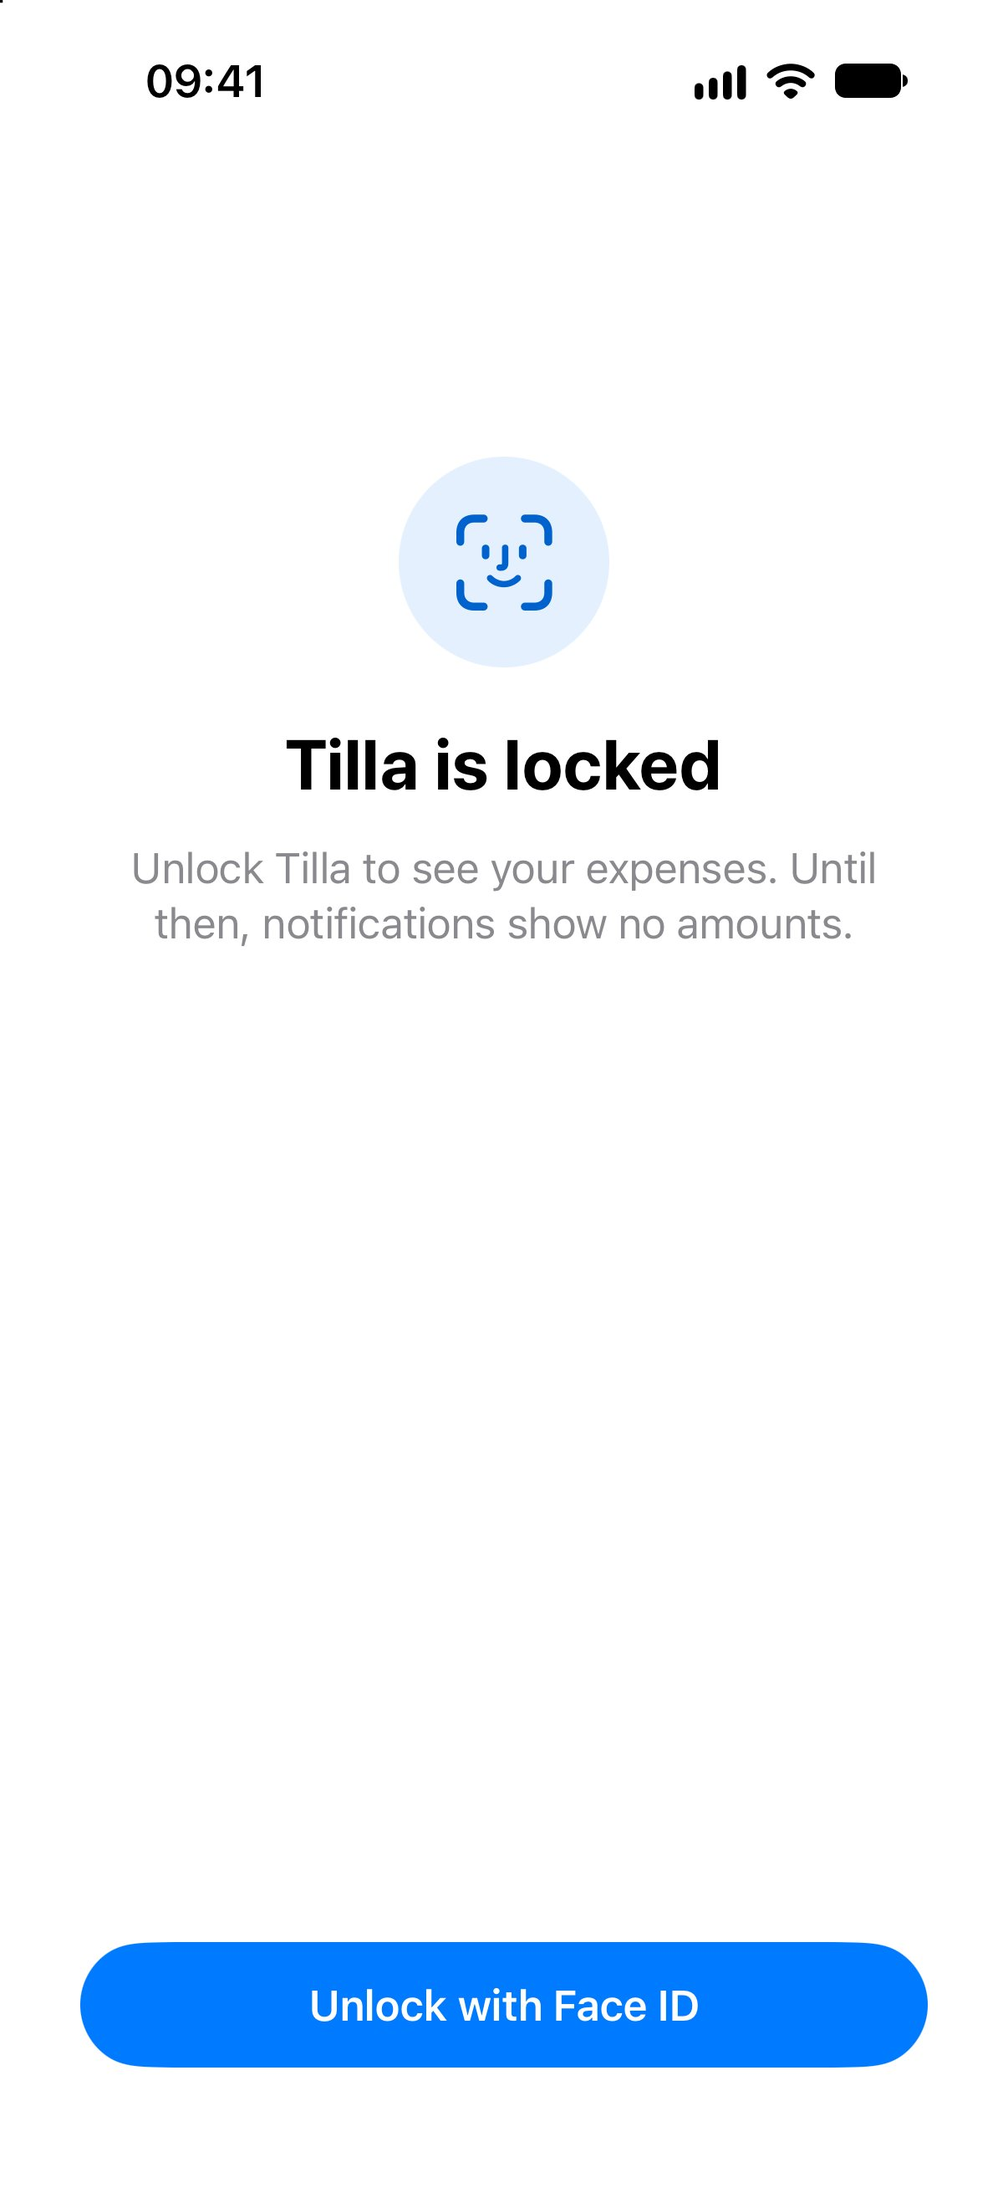
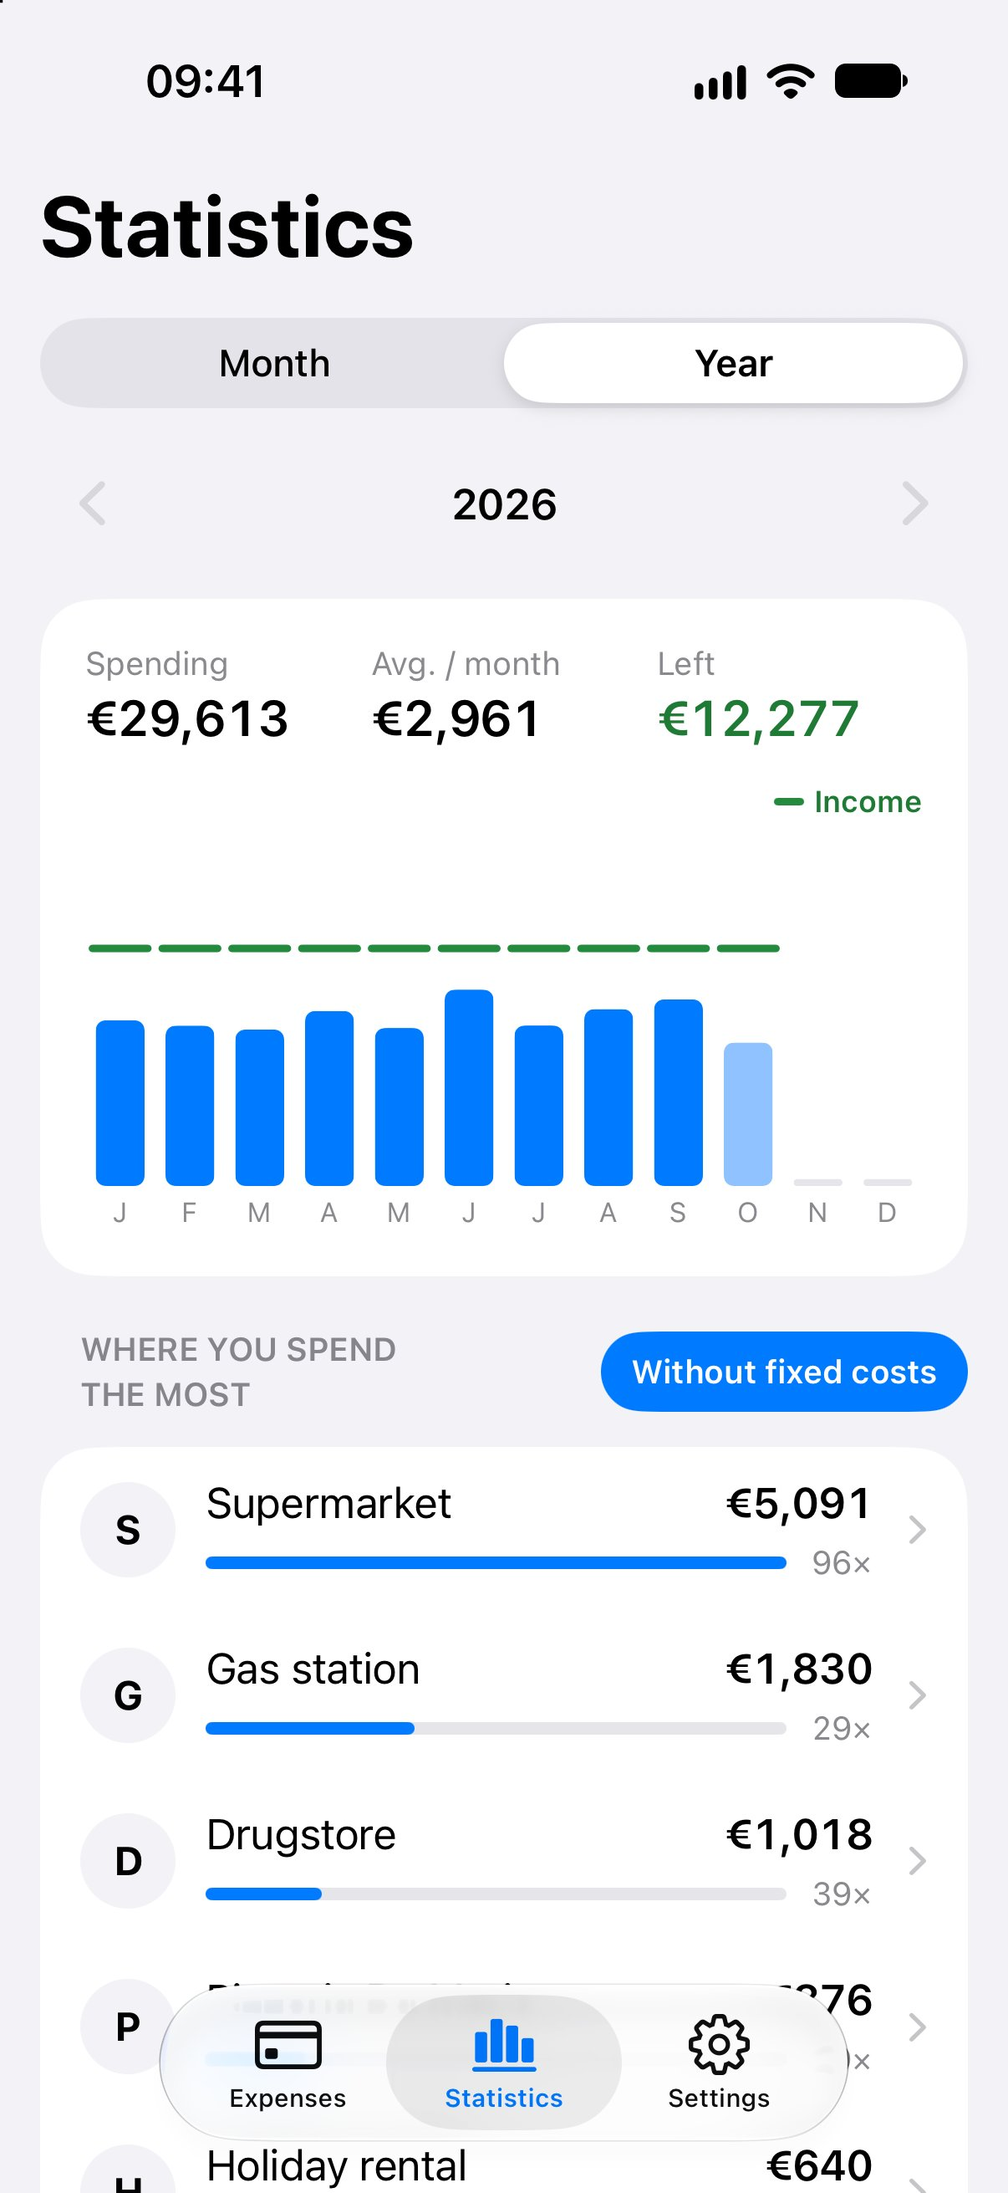
Tilla: iPhone Duo section, the year's statistics as feature 05
- A section of its own for iPhone Duo, with two device images; the hero names it.
- Feature 05 shows the year with new text and alt text; the privacy text keeps
  its wording in a block of its own.

diff --git a/tilla/index.html b/tilla/index.html
@@ -79,6 +79,17 @@ h1{font-size:clamp(40px,6vw,64px);line-height:1.04;font-weight:800;margin-bottom
 .note strong{display:block;margin-bottom:4px}
 .note p{color:var(--sub);font-size:16px}
 
+.privacy{text-align:center;margin-bottom:96px}
+.privacy .section-title{margin-bottom:16px}
+.privacy>p{font-size:19px;color:var(--sub);max-width:34em;margin:0 auto}
+.duo{padding-top:24px;margin-bottom:96px;text-align:center}
+.duo .pill{margin-bottom:16px}
+.duo .section-title{margin-bottom:16px}
+.duo>p{font-size:19px;color:var(--sub);max-width:34em;margin:0 auto 48px}
+.duo-devices{display:grid;grid-template-columns:1fr 1fr;gap:24px}
+.fold{padding:1.3%;border-radius:32px;background:var(--bezel);box-shadow:0 30px 60px -20px rgba(0,0,0,.35),0 0 0 1px rgba(255,255,255,.06) inset}
+.fold img{width:100%;border-radius:22px}
+
 .also{padding-top:24px;margin-bottom:96px}
 .also .section-title{margin-bottom:40px}
 .grid{display:grid;grid-template-columns:repeat(4,1fr);gap:16px}
@@ -110,6 +121,8 @@ footer a{text-decoration:none}
   .feature .phone,.feature:nth-of-type(even) .phone{order:0;margin:0 auto;--w:240px}
   .note{text-align:left}
   .grid{grid-template-columns:repeat(2,1fr)}
+  .privacy,.duo{margin-bottom:72px}
+  .duo-devices{grid-template-columns:1fr}
 }
 @media (max-width:420px){
   .stage{height:470px}
@@ -129,7 +142,7 @@ footer a{text-decoration:none}
 <article lang="de" data-lang="de" data-title="Tilla – Gemeinsame Ausgaben im Blick">
 <section class="hero wrap">
 <div class="hero-text">
-<span class="pill">Bald im App Store · iPhone</span>
+<span class="pill">Bald im App Store · iPhone und iPhone Duo</span>
 <h1>Gemeinsame Ausgaben im Blick</h1>
 <p class="lead">Das gemeinsame Haushaltsbuch für Paare, Familien und WGs: Ihr tragt ein, was ihr ausgebt, und seht jederzeit, wie viel von euren Einnahmen diesen Monat noch übrig ist – ohne Kategorien, Budgets oder Tabellen.</p>
 <div class="actions"><a class="btn" href="https://testflight.apple.com/join/KK5AnQhK">Jetzt die Beta testen</a><a class="btn ghost" href="#de-features">Funktionen ansehen</a></div>
@@ -161,11 +174,13 @@ footer a{text-decoration:none}
 <span class="num">04</span><h3>Gemeinsam über iCloud</h3><p>Ladet alle, mit denen ihr zusammenwohnt, per Nachricht ein – Partnerin oder Partner, Familie oder WG. Alle sehen sofort dasselbe, nichts wird doppelt eingetragen. Kein neues Konto, kein Passwort – Tilla nutzt eure Apple-ID.</p>
 </div></div>
 <div class="feature">
-<div class="phone"><img src="screens/de/06.jpg" width="1206" height="2622" loading="lazy" decoding="async" alt="Tilla mit Face ID gesperrt"></div>
+<div class="phone"><img src="screens/de/06.jpg" width="1206" height="2622" loading="lazy" decoding="async" alt="Statistik des Jahres: Ausgaben und Einnahmen Monat für Monat"></div>
 <div class="feature-text">
-<span class="num">05</span><h3>Privat. Kein Server, kein Tracking.</h3><p>Eure Daten liegen nur auf euren Geräten und in eurem iCloud. Es gibt keinen Tilla-Server, keine Werbung und kein Tracking. Auf Wunsch schützt Face ID oder Touch ID die App.</p>
+<span class="num">05</span><h3>Das ganze Jahr im Blick</h3><p>Die Jahresansicht zeigt Monat für Monat, was ihr ausgegeben habt und was reingekommen ist. So seht ihr auf einen Blick, welche Monate eng waren und was am Ende übrig bleibt.</p>
 </div></div>
 </section>
+<section class="privacy wrap"><h2 class="section-title">Privat. Kein Server, kein Tracking.</h2><p>Eure Daten liegen nur auf euren Geräten und in eurem iCloud. Es gibt keinen Tilla-Server, keine Werbung und kein Tracking. Auf Wunsch schützt Face ID oder Touch ID die App.</p></section>
+<section class="duo wrap"><span class="pill">iPhone Duo</span><h2 class="section-title">Aufgeklappt noch mehr im Blick</h2><p>Auf dem iPhone Duo nutzt Tilla beide Hälften des Displays: links der Monat, rechts eure Einträge. Neue Ausgaben öffnen sich daneben, der Monat bleibt sichtbar.</p><div class="duo-devices"><div class="fold"><img src="screens/de/duo/01.jpg" width="2853" height="2007" loading="lazy" decoding="async" alt="Tilla auf dem iPhone Duo: links der Monat, rechts die Einträge"></div><div class="fold"><img src="screens/de/duo/02.jpg" width="2853" height="2007" loading="lazy" decoding="async" alt="Neue Ausgabe in der rechten Hälfte, der Monat bleibt links sichtbar"></div></div></section>
 <section class="also wrap"><h2 class="section-title">Außerdem</h2><div class="grid">
 <div class="card"><svg viewBox="0 0 24 24" aria-hidden="true" fill="none" stroke="currentColor" stroke-width="1.8" stroke-linecap="round" stroke-linejoin="round"><rect x="9" y="3" width="6" height="11" rx="3"/><path d="M5 11a7 7 0 0 0 14 0M12 18v3"/></svg><h3>Siri und Kurzbefehle</h3><p>Ausgaben per Sprache eintragen und fragen, wie viel ihr diesen Monat ausgegeben habt.</p></div>
 <div class="card"><svg viewBox="0 0 24 24" aria-hidden="true" fill="none" stroke="currentColor" stroke-width="1.8" stroke-linecap="round" stroke-linejoin="round"><path d="M6 16V11a6 6 0 0 1 12 0v5l2 2H4l2-2ZM10 21h4"/></svg><h3>Tägliche Erinnerung</h3><p>Falls ihr etwas vergessen habt.</p></div>
@@ -183,7 +198,7 @@ footer a{text-decoration:none}
 <article lang="en" data-lang="en" data-title="Tilla – Shared spending at a glance">
 <section class="hero wrap">
 <div class="hero-text">
-<span class="pill">Coming soon to the App Store · iPhone</span>
+<span class="pill">Coming soon to the App Store · iPhone and iPhone Duo</span>
 <h1>Shared spending at a glance</h1>
 <p class="lead">The shared household expense book for couples, families and flatmates: you log what you spend and always see how much of your income is left this month – no categories, budgets or spreadsheets.</p>
 <div class="actions"><a class="btn" href="https://testflight.apple.com/join/KK5AnQhK">Try the beta now</a><a class="btn ghost" href="#en-features">See the features</a></div>
@@ -215,11 +230,13 @@ footer a{text-decoration:none}
 <span class="num">04</span><h3>Together over iCloud</h3><p>Invite the people you live with by message – your partner, family or flatmates. Everyone sees the same right away, nothing is entered twice. No new account, no password – Tilla uses your Apple ID.</p>
 </div></div>
 <div class="feature">
-<div class="phone"><img src="screens/en/06.jpg" width="1206" height="2622" loading="lazy" decoding="async" alt="Tilla locked with Face ID"></div>
+<div class="phone"><img src="screens/en/06.jpg" width="1206" height="2622" loading="lazy" decoding="async" alt="The year’s statistics: spending and income month by month"></div>
 <div class="feature-text">
-<span class="num">05</span><h3>Private. No server, no tracking.</h3><p>Your data stays on your devices and in your iCloud. There is no Tilla server, no ads and no tracking. Face ID or Touch ID can lock the app if you like.</p>
+<span class="num">05</span><h3>The whole year at a glance</h3><p>The year view shows what you spent and what came in, month by month. So you can see at a glance which months were tight and what’s left at the end.</p>
 </div></div>
 </section>
+<section class="privacy wrap"><h2 class="section-title">Private. No server, no tracking.</h2><p>Your data stays on your devices and in your iCloud. There is no Tilla server, no ads and no tracking. Face ID or Touch ID can lock the app if you like.</p></section>
+<section class="duo wrap"><span class="pill">iPhone Duo</span><h2 class="section-title">Unfold for even more at a glance</h2><p>On iPhone Duo, Tilla uses both halves of the display: your month on the left, your entries on the right. New expenses open alongside, so the month stays in view.</p><div class="duo-devices"><div class="fold"><img src="screens/en/duo/01.jpg" width="2853" height="2007" loading="lazy" decoding="async" alt="Tilla on iPhone Duo: the month on the left, the entries on the right"></div><div class="fold"><img src="screens/en/duo/02.jpg" width="2853" height="2007" loading="lazy" decoding="async" alt="A new expense in the right half, with the month still visible on the left"></div></div></section>
 <section class="also wrap"><h2 class="section-title">Also</h2><div class="grid">
 <div class="card"><svg viewBox="0 0 24 24" aria-hidden="true" fill="none" stroke="currentColor" stroke-width="1.8" stroke-linecap="round" stroke-linejoin="round"><rect x="9" y="3" width="6" height="11" rx="3"/><path d="M5 11a7 7 0 0 0 14 0M12 18v3"/></svg><h3>Siri and Shortcuts</h3><p>Log expenses by voice and ask how much you’ve spent this month.</p></div>
 <div class="card"><svg viewBox="0 0 24 24" aria-hidden="true" fill="none" stroke="currentColor" stroke-width="1.8" stroke-linecap="round" stroke-linejoin="round"><path d="M6 16V11a6 6 0 0 1 12 0v5l2 2H4l2-2ZM10 21h4"/></svg><h3>Daily reminder</h3><p>In case you forgot something.</p></div>
@@ -237,7 +254,7 @@ footer a{text-decoration:none}
 <article lang="es" data-lang="es" data-title="Tilla – Gastos compartidos a la vista">
 <section class="hero wrap">
 <div class="hero-text">
-<span class="pill">Pronto en el App Store · iPhone</span>
+<span class="pill">Pronto en el App Store · iPhone y iPhone Duo</span>
 <h1>Gastos compartidos a la vista</h1>
 <p class="lead">El libro de gastos compartido del hogar, para parejas, familias y pisos compartidos: apuntáis lo que gastáis y veis en todo momento cuánto queda de vuestros ingresos este mes, sin categorías, presupuestos ni hojas de cálculo.</p>
 <div class="actions"><a class="btn" href="https://testflight.apple.com/join/KK5AnQhK">Prueba la beta ahora</a><a class="btn ghost" href="#es-features">Ver funciones</a></div>
@@ -269,11 +286,13 @@ footer a{text-decoration:none}
 <span class="num">04</span><h3>Juntos a través de iCloud</h3><p>Invitad con un mensaje a quienes vivís juntos: pareja, familia o compañeros de piso. Todos veis lo mismo al momento y nada se apunta dos veces. Sin cuenta nueva ni contraseña: Tilla usa vuestro Apple ID.</p>
 </div></div>
 <div class="feature">
-<div class="phone"><img src="screens/es/06.jpg" width="1206" height="2622" loading="lazy" decoding="async" alt="Tilla bloqueada con Face ID"></div>
+<div class="phone"><img src="screens/es/06.jpg" width="1206" height="2622" loading="lazy" decoding="async" alt="Estadísticas del año: gastos e ingresos mes a mes"></div>
 <div class="feature-text">
-<span class="num">05</span><h3>Privado. Sin servidor ni rastreo.</h3><p>Vuestros datos están solo en vuestros dispositivos y en vuestro iCloud. No hay servidor de Tilla, ni anuncios, ni rastreo. Si queréis, Face ID o Touch ID protegen la app.</p>
+<span class="num">05</span><h3>Todo el año de un vistazo</h3><p>La vista anual muestra, mes a mes, lo que habéis gastado y lo que ha entrado. Así veis de un vistazo qué meses fueron justos y lo que queda al final.</p>
 </div></div>
 </section>
+<section class="privacy wrap"><h2 class="section-title">Privado. Sin servidor ni rastreo.</h2><p>Vuestros datos están solo en vuestros dispositivos y en vuestro iCloud. No hay servidor de Tilla, ni anuncios, ni rastreo. Si queréis, Face ID o Touch ID protegen la app.</p></section>
+<section class="duo wrap"><span class="pill">iPhone Duo</span><h2 class="section-title">Al abrirlo, aún más de un vistazo</h2><p>En el iPhone Duo, Tilla aprovecha las dos mitades de la pantalla: el mes a la izquierda y vuestras entradas a la derecha. Los gastos nuevos se abren al lado, y el mes sigue a la vista.</p><div class="duo-devices"><div class="fold"><img src="screens/es/duo/01.jpg" width="2853" height="2007" loading="lazy" decoding="async" alt="Tilla en el iPhone Duo: el mes a la izquierda y las entradas a la derecha"></div><div class="fold"><img src="screens/es/duo/02.jpg" width="2853" height="2007" loading="lazy" decoding="async" alt="Un gasto nuevo en la mitad derecha, con el mes visible a la izquierda"></div></div></section>
 <section class="also wrap"><h2 class="section-title">Y además</h2><div class="grid">
 <div class="card"><svg viewBox="0 0 24 24" aria-hidden="true" fill="none" stroke="currentColor" stroke-width="1.8" stroke-linecap="round" stroke-linejoin="round"><rect x="9" y="3" width="6" height="11" rx="3"/><path d="M5 11a7 7 0 0 0 14 0M12 18v3"/></svg><h3>Siri y Atajos</h3><p>Apuntad gastos con la voz y preguntad cuánto lleváis gastado este mes.</p></div>
 <div class="card"><svg viewBox="0 0 24 24" aria-hidden="true" fill="none" stroke="currentColor" stroke-width="1.8" stroke-linecap="round" stroke-linejoin="round"><path d="M6 16V11a6 6 0 0 1 12 0v5l2 2H4l2-2ZM10 21h4"/></svg><h3>Recordatorio diario</h3><p>Por si se os ha olvidado algo.</p></div>
@@ -291,7 +310,7 @@ footer a{text-decoration:none}
 <article lang="fr" data-lang="fr" data-title="Tilla – Vos dépenses communes en clair">
 <section class="hero wrap">
 <div class="hero-text">
-<span class="pill">Bientôt sur l’App Store · iPhone</span>
+<span class="pill">Bientôt sur l’App Store · iPhone et iPhone Duo</span>
 <h1>Vos dépenses communes en clair</h1>
 <p class="lead">Le carnet de dépenses du foyer, pensé pour les couples, les familles et les colocations : vous notez ce que vous dépensez et voyez à tout moment ce qu’il reste de vos revenus ce mois-ci – sans catégories, budgets ni tableurs.</p>
 <div class="actions"><a class="btn" href="https://testflight.apple.com/join/KK5AnQhK">Essayer la bêta</a><a class="btn ghost" href="#fr-features">Voir les fonctions</a></div>
@@ -323,11 +342,13 @@ footer a{text-decoration:none}
 <span class="num">04</span><h3>Ensemble via iCloud</h3><p>Invitez par message les personnes avec qui vous vivez : partenaire, famille ou colocataires. Tout le monde voit la même chose aussitôt, rien n’est saisi deux fois. Pas de nouveau compte, pas de mot de passe : Tilla utilise votre identifiant Apple.</p>
 </div></div>
 <div class="feature">
-<div class="phone"><img src="screens/fr/06.jpg" width="1206" height="2622" loading="lazy" decoding="async" alt="Tilla verrouillée avec Face ID"></div>
+<div class="phone"><img src="screens/fr/06.jpg" width="1206" height="2622" loading="lazy" decoding="async" alt="Statistiques de l’année : dépenses et revenus mois par mois"></div>
 <div class="feature-text">
-<span class="num">05</span><h3>Privé. Sans serveur ni pistage.</h3><p>Vos données restent sur vos appareils et dans votre iCloud. Pas de serveur Tilla, pas de publicité, pas de pistage. Si vous le souhaitez, Face ID ou Touch ID protège l’app.</p>
+<span class="num">05</span><h3>Toute l’année en un coup d’œil</h3><p>La vue annuelle montre, mois par mois, ce que vous avez dépensé et ce qui est rentré. Vous voyez d’un coup d’œil quels mois ont été serrés et ce qu’il reste à la fin.</p>
 </div></div>
 </section>
+<section class="privacy wrap"><h2 class="section-title">Privé. Sans serveur ni pistage.</h2><p>Vos données restent sur vos appareils et dans votre iCloud. Pas de serveur Tilla, pas de publicité, pas de pistage. Si vous le souhaitez, Face ID ou Touch ID protège l’app.</p></section>
+<section class="duo wrap"><span class="pill">iPhone Duo</span><h2 class="section-title">Dépliez, et voyez encore plus</h2><p>Sur l’iPhone Duo, Tilla utilise les deux moitiés de l’écran : le mois à gauche, vos entrées à droite. Les nouvelles dépenses s’ouvrent à côté, et le mois reste visible.</p><div class="duo-devices"><div class="fold"><img src="screens/fr/duo/01.jpg" width="2853" height="2007" loading="lazy" decoding="async" alt="Tilla sur l’iPhone Duo : le mois à gauche, les entrées à droite"></div><div class="fold"><img src="screens/fr/duo/02.jpg" width="2853" height="2007" loading="lazy" decoding="async" alt="Une nouvelle dépense dans la moitié droite, le mois restant visible à gauche"></div></div></section>
 <section class="also wrap"><h2 class="section-title">Et aussi</h2><div class="grid">
 <div class="card"><svg viewBox="0 0 24 24" aria-hidden="true" fill="none" stroke="currentColor" stroke-width="1.8" stroke-linecap="round" stroke-linejoin="round"><rect x="9" y="3" width="6" height="11" rx="3"/><path d="M5 11a7 7 0 0 0 14 0M12 18v3"/></svg><h3>Siri et Raccourcis</h3><p>Saisissez une dépense à la voix et demandez combien vous avez dépensé ce mois-ci.</p></div>
 <div class="card"><svg viewBox="0 0 24 24" aria-hidden="true" fill="none" stroke="currentColor" stroke-width="1.8" stroke-linecap="round" stroke-linejoin="round"><path d="M6 16V11a6 6 0 0 1 12 0v5l2 2H4l2-2ZM10 21h4"/></svg><h3>Rappel quotidien</h3><p>Au cas où vous auriez oublié quelque chose.</p></div>
@@ -345,7 +366,7 @@ footer a{text-decoration:none}
 <article lang="it" data-lang="it" data-title="Tilla – Spese comuni a colpo d’occhio">
 <section class="hero wrap">
 <div class="hero-text">
-<span class="pill">Presto sull’App Store · iPhone</span>
+<span class="pill">Presto sull’App Store · iPhone e iPhone Duo</span>
 <h1>Spese comuni a colpo d’occhio</h1>
 <p class="lead">Il quaderno delle spese di casa pensato per coppie, famiglie e coinquilini: annotate quello che spendete e vedete in ogni momento quanto rimane delle vostre entrate questo mese – senza categorie, budget o fogli di calcolo.</p>
 <div class="actions"><a class="btn" href="https://testflight.apple.com/join/KK5AnQhK">Prova subito la beta</a><a class="btn ghost" href="#it-features">Scopri le funzioni</a></div>
@@ -377,11 +398,13 @@ footer a{text-decoration:none}
 <span class="num">04</span><h3>Insieme tramite iCloud</h3><p>Invitate con un messaggio le persone con cui vivete: partner, famiglia o coinquilini. Tutti vedono subito le stesse cose e niente va inserito due volte. Nessun nuovo account, nessuna password: Tilla usa il vostro ID Apple.</p>
 </div></div>
 <div class="feature">
-<div class="phone"><img src="screens/it/06.jpg" width="1206" height="2622" loading="lazy" decoding="async" alt="Tilla bloccata con Face ID"></div>
+<div class="phone"><img src="screens/it/06.jpg" width="1206" height="2622" loading="lazy" decoding="async" alt="Statistiche dell’anno: spese ed entrate mese per mese"></div>
 <div class="feature-text">
-<span class="num">05</span><h3>Privato. Niente server né tracciamento.</h3><p>I vostri dati restano solo sui vostri dispositivi e nel vostro iCloud. Nessun server di Tilla, nessuna pubblicità, nessun tracciamento. Se volete, Face ID o Touch ID proteggono l’app.</p>
+<span class="num">05</span><h3>Tutto l’anno a colpo d’occhio</h3><p>La vista annuale mostra, mese per mese, quanto avete speso e quanto è entrato. Così vedete a colpo d’occhio quali mesi sono stati stretti e cosa resta alla fine.</p>
 </div></div>
 </section>
+<section class="privacy wrap"><h2 class="section-title">Privato. Niente server né tracciamento.</h2><p>I vostri dati restano solo sui vostri dispositivi e nel vostro iCloud. Nessun server di Tilla, nessuna pubblicità, nessun tracciamento. Se volete, Face ID o Touch ID proteggono l’app.</p></section>
+<section class="duo wrap"><span class="pill">iPhone Duo</span><h2 class="section-title">Apritelo e vedete ancora di più</h2><p>Su iPhone Duo, Tilla usa entrambe le metà dello schermo: il mese a sinistra, le vostre voci a destra. Le nuove spese si aprono accanto e il mese resta in vista.</p><div class="duo-devices"><div class="fold"><img src="screens/it/duo/01.jpg" width="2853" height="2007" loading="lazy" decoding="async" alt="Tilla su iPhone Duo: il mese a sinistra, le voci a destra"></div><div class="fold"><img src="screens/it/duo/02.jpg" width="2853" height="2007" loading="lazy" decoding="async" alt="Una nuova spesa nella metà destra, con il mese visibile a sinistra"></div></div></section>
 <section class="also wrap"><h2 class="section-title">E inoltre</h2><div class="grid">
 <div class="card"><svg viewBox="0 0 24 24" aria-hidden="true" fill="none" stroke="currentColor" stroke-width="1.8" stroke-linecap="round" stroke-linejoin="round"><rect x="9" y="3" width="6" height="11" rx="3"/><path d="M5 11a7 7 0 0 0 14 0M12 18v3"/></svg><h3>Siri e Comandi Rapidi</h3><p>Registrate le spese a voce e chiedete quanto avete speso questo mese.</p></div>
 <div class="card"><svg viewBox="0 0 24 24" aria-hidden="true" fill="none" stroke="currentColor" stroke-width="1.8" stroke-linecap="round" stroke-linejoin="round"><path d="M6 16V11a6 6 0 0 1 12 0v5l2 2H4l2-2ZM10 21h4"/></svg><h3>Promemoria giornaliero</h3><p>Nel caso abbiate dimenticato qualcosa.</p></div>
